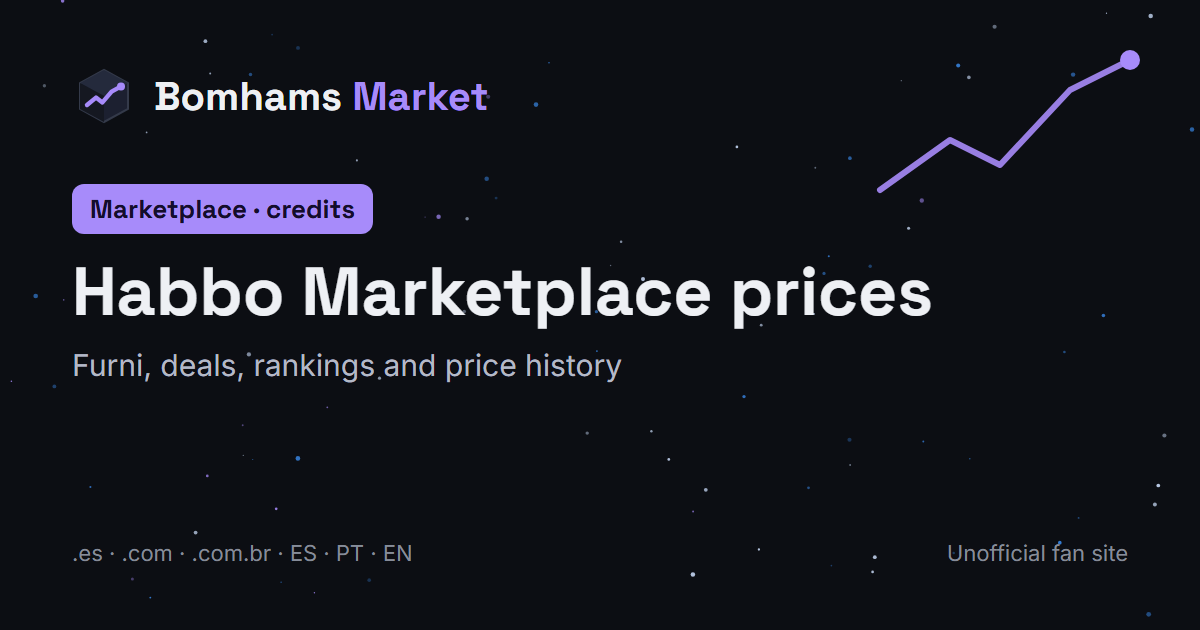
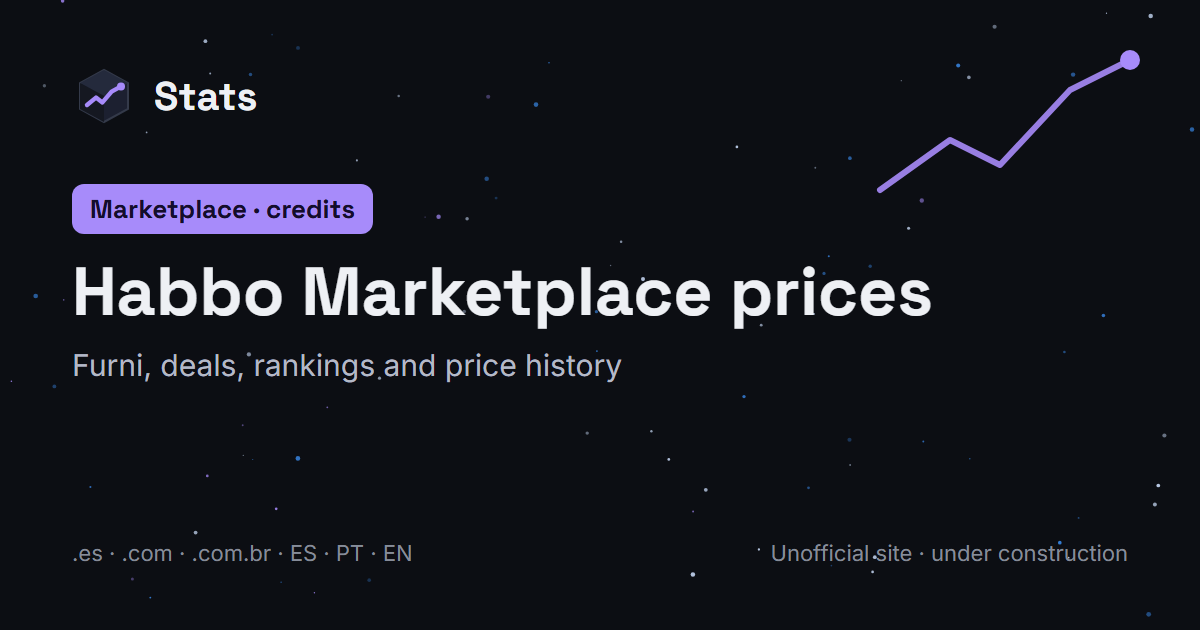
Nombre nuevo: Stats, y "En construcción" en el pie
El sitio pasa a llamarse Stats en el logo, títulos, Google, imágenes para compartir, avisos, notificaciones y correos. En el pie, la etiqueta "En construcción" reemplaza la mención a la comunidad; se mantiene el aviso de que no es oficial.

Changed region(s): [[0.1233, 0.1206, 0.4008, 0.181], [0.6475, 0.8444, 0.9558, 0.9048]]

diff --git a/src/lib/i18n/pages/es.tsx b/src/lib/i18n/pages/es.tsx
@@ -3,19 +3,19 @@ import type { ReactNode } from "react";
 /** Textos de las páginas (solo se usan en el servidor). */
 export const es = {
   meta: {
-    title: "Bomhams Market — precios del Marketplace",
-    template: "%s · Bomhams Market",
+    title: "Stats — precios del Marketplace",
+    template: "%s · Stats",
     description:
-      "Precios, ofertas abiertas, promedios e historial del Marketplace de furnis, con datos de la API pública de Habbo. Creado por la comunidad BOMHAMS; no oficial.",
+      "Precios, ofertas abiertas, promedios e historial del Marketplace de furnis, con datos de la API pública de Habbo. Sitio no oficial.",
     nftTitle: "NFT de Habbo — precios y ventas",
-    nftTemplate: "%s · NFT · Bomhams Market",
+    nftTemplate: "%s · NFT · Stats",
     nftDescription:
       "Precios piso, ventas y tendencias de los coleccionables NFT oficiales de Habbo en la blockchain Immutable. Sección separada del Marketplace de créditos.",
   },
   /** Títulos y descripciones para buscadores y para la vista previa al compartir. */
   seo: {
-    ogAltMarket: "Bomhams Market: precios del Marketplace de Habbo",
-    ogAltNft: "Bomhams Market: precios de los NFT oficiales de Habbo",
+    ogAltMarket: "Stats: precios del Marketplace de Habbo",
+    ogAltNft: "Stats: precios de los NFT oficiales de Habbo",
     home: (label: string) => `Precios del Marketplace de Habbo ${label}`,
     homeDesc: (label: string, region: string) =>
       `Precio mínimo, ofertas abiertas, promedios e historial de los furnis del Marketplace de Habbo ${label} (${region}). Rankings y ofertas detectadas cada día.`,
@@ -44,13 +44,15 @@ export const es = {
     nftRankingDesc: (hint: string) => `${hint} NFT oficiales de Habbo en la blockchain Immutable.`,
     nftAboutDesc: "De dónde salen los precios de los NFT de Habbo (API pública de Immutable), qué tan actuales son y qué límites tienen.",
   },
-  header: { homeAria: "Bomhams Market, inicio", nftHomeAria: "Bomhams Market NFT, inicio" },
+  header: { homeAria: "Stats, inicio", nftHomeAria: "Stats NFT, inicio" },
   footer: {
     about: (
       <>
-        Creado por la comunidad <strong className="text-text">BOMHAMS</strong>, sin fines comerciales.{" "}
-        <strong className="text-text">Bomhams Market</strong> no es oficial y no está afiliado, patrocinado ni aprobado por
-        Sulake Oy ni por Azerion. Habbo es una marca registrada de Sulake Oy.
+        <span className="mr-2 inline-flex items-center rounded-md border border-accent/50 bg-accent/10 px-2 py-0.5 text-xs font-bold uppercase tracking-wider text-accent">
+          En construcción
+        </span>
+        <strong className="text-text">Stats</strong> no tiene fines comerciales, no es oficial y no está afiliado, patrocinado ni
+        aprobado por Sulake Oy ni por Azerion. Habbo es una marca registrada de Sulake Oy.
       </>
     ),
     data: "Precios y estadísticas: API pública de Habbo. Íconos de furnis: servidos directamente por el CDN de Habbo. Los datos pueden tener demoras o errores; no los uses como única referencia para comprar o vender.",
@@ -307,14 +309,14 @@ export const es = {
       "Tu lista de alertas se guarda en tu navegador y, si creás una cuenta, también en tu cuenta. No usamos publicidad ni cookies de seguimiento. Las consultas en vivo van desde tu navegador directo a la API de Habbo, sin enviar cookies. El detalle está en «Privacidad y cookies».",
     legalTitle: "Aviso legal",
     legal:
-      "Bomhams Market fue creado por la comunidad BOMHAMS, es gratuito y sin fines comerciales. No es oficial y no está afiliado, patrocinado ni aprobado por Sulake Oy ni por Azerion. Habbo y los nombres e imágenes de los furnis son propiedad de Sulake Oy. Si Sulake pide retirar algún contenido, se retira.",
+      "Stats es gratuito y sin fines comerciales. No es oficial y no está afiliado, patrocinado ni aprobado por Sulake Oy ni por Azerion. Habbo y los nombres e imágenes de los furnis son propiedad de Sulake Oy. Si Sulake pide retirar algún contenido, se retira.",
   },
   privacy: {
     metaTitle: "Privacidad y cookies",
-    metaDesc: "Qué guarda Bomhams Market, dónde y cómo borrarlo. Sin publicidad ni seguimiento.",
+    metaDesc: "Qué guarda Stats, dónde y cómo borrarlo. Sin publicidad ni seguimiento.",
     title: "Privacidad y cookies",
     intro:
-      "Bomhams Market no tiene publicidad ni seguimiento, no vende datos y solo pide tu email si creás una cuenta. Esto es todo lo que se guarda y dónde.",
+      "Stats no tiene publicidad ni seguimiento, no vende datos y solo pide tu email si creás una cuenta. Esto es todo lo que se guarda y dónde.",
     sections: [
       {
         title: "En tu navegador (necesario)",
@@ -362,7 +364,7 @@ export const es = {
     ),
     marketLink: "Marketplace (créditos)",
     footerData:
-      "Datos de la API pública de Immutable zkEVM; imágenes servidas por Habbo (nft-tokens.habbo.com). Bomhams Market no es oficial ni está afiliado a Sulake Oy, Azerion ni Immutable.",
+      "Datos de la API pública de Immutable zkEVM; imágenes servidas por Habbo (nft-tokens.habbo.com). Stats no es oficial ni está afiliado a Sulake Oy, Azerion ni Immutable.",
     footerRisk:
       "Esto no es asesoramiento financiero. Los precios de los NFT cambian rápido y pueden bajar a cero; los dólares son aproximados según la cotización del momento.",
     collections: {
@@ -522,7 +524,7 @@ export const es = {
       ),
       noticeTitle: "Aviso",
       notice:
-        "Esto no es asesoramiento financiero. Los NFT son activos volátiles: su precio puede cambiar mucho o llegar a cero. Bomhams Market no vende, no compra y no custodia nada; solo muestra datos públicos. No es un sitio oficial de Habbo, Sulake, Azerion ni Immutable.",
+        "Esto no es asesoramiento financiero. Los NFT son activos volátiles: su precio puede cambiar mucho o llegar a cero. Stats no vende, no compra y no custodia nada; solo muestra datos públicos. No es un sitio oficial de Habbo, Sulake, Azerion ni Immutable.",
     },
   },
 };

diff --git a/src/lib/i18n/pages/pt.tsx b/src/lib/i18n/pages/pt.tsx
@@ -2,18 +2,18 @@ import type { Pages } from "./es";
 
 export const pt: Pages = {
   meta: {
-    title: "Bomhams Market — preços do Marketplace",
-    template: "%s · Bomhams Market",
+    title: "Stats — preços do Marketplace",
+    template: "%s · Stats",
     description:
-      "Preços, ofertas abertas, médias e histórico do Marketplace de mobis, com dados da API pública do Habbo. Criado pela comunidade BOMHAMS; não oficial.",
+      "Preços, ofertas abertas, médias e histórico do Marketplace de mobis, com dados da API pública do Habbo. Site não oficial.",
     nftTitle: "NFT do Habbo — preços e vendas",
-    nftTemplate: "%s · NFT · Bomhams Market",
+    nftTemplate: "%s · NFT · Stats",
     nftDescription:
       "Preço mínimo, vendas e tendências dos colecionáveis NFT oficiais do Habbo na blockchain Immutable. Seção separada do Marketplace de créditos.",
   },
   seo: {
-    ogAltMarket: "Bomhams Market: preços do Marketplace do Habbo",
-    ogAltNft: "Bomhams Market: preços dos NFT oficiais do Habbo",
+    ogAltMarket: "Stats: preços do Marketplace do Habbo",
+    ogAltNft: "Stats: preços dos NFT oficiais do Habbo",
     home: (label) => `Preços do Marketplace do Habbo ${label}`,
     homeDesc: (label, region) =>
       `Menor preço, ofertas abertas, médias e histórico dos mobis do Marketplace do Habbo ${label} (${region}). Rankings e ofertas detectadas todos os dias.`,
@@ -40,13 +40,15 @@ export const pt: Pages = {
     nftRankingDesc: (hint) => `${hint} NFT oficiais do Habbo na blockchain Immutable.`,
     nftAboutDesc: "De onde vêm os preços dos NFT do Habbo (API pública da Immutable), quão atuais são e quais limites têm.",
   },
-  header: { homeAria: "Bomhams Market, início", nftHomeAria: "Bomhams Market NFT, início" },
+  header: { homeAria: "Stats, início", nftHomeAria: "Stats NFT, início" },
   footer: {
     about: (
       <>
-        Criado pela comunidade <strong className="text-text">BOMHAMS</strong>, sem fins comerciais.{" "}
-        <strong className="text-text">Bomhams Market</strong> não é oficial e não é afiliado, patrocinado nem aprovado pela
-        Sulake Oy nem pela Azerion. Habbo é uma marca registrada da Sulake Oy.
+        <span className="mr-2 inline-flex items-center rounded-md border border-accent/50 bg-accent/10 px-2 py-0.5 text-xs font-bold uppercase tracking-wider text-accent">
+          Em construção
+        </span>
+        <strong className="text-text">Stats</strong> não tem fins comerciais, não é oficial e não é afiliado, patrocinado nem
+        aprovado pela Sulake Oy nem pela Azerion. Habbo é uma marca registrada da Sulake Oy.
       </>
     ),
     data: "Preços e estatísticas: API pública do Habbo. Ícones dos mobis: servidos diretamente pelo CDN do Habbo. Os dados podem ter atrasos ou erros; não use como única referência para comprar ou vender.",
@@ -298,13 +300,13 @@ export const pt: Pages = {
       "Sua lista de alertas fica salva no seu navegador e, se você criar uma conta, também na conta. Não usamos publicidade nem cookies de rastreamento. As consultas ao vivo vão do seu navegador direto para a API do Habbo, sem enviar cookies. Os detalhes estão em «Privacidade e cookies».",
     legalTitle: "Aviso legal",
     legal:
-      "Bomhams Market foi criado pela comunidade BOMHAMS, é gratuito e sem fins comerciais. Não é oficial e não é afiliado, patrocinado nem aprovado pela Sulake Oy nem pela Azerion. Habbo e os nomes e imagens dos mobis são propriedade da Sulake Oy. Se a Sulake pedir para retirar algum conteúdo, ele será retirado.",
+      "Stats é gratuito e sem fins comerciais. Não é oficial e não é afiliado, patrocinado nem aprovado pela Sulake Oy nem pela Azerion. Habbo e os nomes e imagens dos mobis são propriedade da Sulake Oy. Se a Sulake pedir para retirar algum conteúdo, ele será retirado.",
   },
   privacy: {
     metaTitle: "Privacidade e cookies",
-    metaDesc: "O que o Bomhams Market guarda, onde e como apagar. Sem publicidade nem rastreamento.",
+    metaDesc: "O que o Stats guarda, onde e como apagar. Sem publicidade nem rastreamento.",
     title: "Privacidade e cookies",
-    intro: "O Bomhams Market não tem publicidade nem rastreamento, não vende dados e só pede seu e-mail se você criar uma conta. Isto é tudo o que fica salvo e onde.",
+    intro: "O Stats não tem publicidade nem rastreamento, não vende dados e só pede seu e-mail se você criar uma conta. Isto é tudo o que fica salvo e onde.",
     sections: [
       {
         title: "No seu navegador (necessário)",
@@ -352,7 +354,7 @@ export const pt: Pages = {
     ),
     marketLink: "Marketplace (créditos)",
     footerData:
-      "Dados da API pública da Immutable zkEVM; imagens servidas pelo Habbo (nft-tokens.habbo.com). Bomhams Market não é oficial nem afiliado à Sulake Oy, à Azerion ou à Immutable.",
+      "Dados da API pública da Immutable zkEVM; imagens servidas pelo Habbo (nft-tokens.habbo.com). Stats não é oficial nem afiliado à Sulake Oy, à Azerion ou à Immutable.",
     footerRisk:
       "Isto não é recomendação financeira. Os preços dos NFT mudam rápido e podem chegar a zero; os valores em dólares são aproximados pela cotação do momento.",
     collections: {
@@ -506,7 +508,7 @@ export const pt: Pages = {
       ),
       noticeTitle: "Aviso",
       notice:
-        "Isto não é recomendação financeira. NFT são ativos voláteis: o preço pode mudar muito ou chegar a zero. O Bomhams Market não vende, não compra e não guarda nada; só mostra dados públicos. Não é um site oficial do Habbo, da Sulake, da Azerion nem da Immutable.",
+        "Isto não é recomendação financeira. NFT são ativos voláteis: o preço pode mudar muito ou chegar a zero. O Stats não vende, não compra e não guarda nada; só mostra dados públicos. Não é um site oficial do Habbo, da Sulake, da Azerion nem da Immutable.",
     },
   },
 };

diff --git a/src/lib/i18n/pages/en.tsx b/src/lib/i18n/pages/en.tsx
@@ -2,18 +2,18 @@ import type { Pages } from "./es";
 
 export const en: Pages = {
   meta: {
-    title: "Bomhams Market — Marketplace prices",
-    template: "%s · Bomhams Market",
+    title: "Stats — Marketplace prices",
+    template: "%s · Stats",
     description:
-      "Prices, open offers, averages and history of the furni Marketplace, using data from Habbo's public API. Created by the BOMHAMS community; unofficial.",
+      "Prices, open offers, averages and history of the furni Marketplace, using data from Habbo's public API. Unofficial site.",
     nftTitle: "Habbo NFTs — prices and sales",
-    nftTemplate: "%s · NFT · Bomhams Market",
+    nftTemplate: "%s · NFT · Stats",
     nftDescription:
       "Floor prices, sales and trends of Habbo's official NFT collectibles on the Immutable blockchain. A section separate from the credits Marketplace.",
   },
   seo: {
-    ogAltMarket: "Bomhams Market: Habbo Marketplace prices",
-    ogAltNft: "Bomhams Market: prices of Habbo's official NFTs",
+    ogAltMarket: "Stats: Habbo Marketplace prices",
+    ogAltNft: "Stats: prices of Habbo's official NFTs",
     home: (label) => `Habbo ${label} Marketplace prices`,
     homeDesc: (label, region) =>
       `Lowest price, open offers, averages and history for every furni on the Habbo ${label} Marketplace (${region}). Daily rankings and deals.`,
@@ -38,12 +38,14 @@ export const en: Pages = {
     nftRankingDesc: (hint) => `${hint} Habbo's official NFTs on the Immutable blockchain.`,
     nftAboutDesc: "Where Habbo NFT prices come from (Immutable's public API), how fresh they are and what their limits are.",
   },
-  header: { homeAria: "Bomhams Market, home", nftHomeAria: "Bomhams Market NFT, home" },
+  header: { homeAria: "Stats, home", nftHomeAria: "Stats NFT, home" },
   footer: {
     about: (
       <>
-        Created by the <strong className="text-text">BOMHAMS</strong> community, non-commercial.{" "}
-        <strong className="text-text">Bomhams Market</strong> is not official and is not affiliated with, sponsored or
+        <span className="mr-2 inline-flex items-center rounded-md border border-accent/50 bg-accent/10 px-2 py-0.5 text-xs font-bold uppercase tracking-wider text-accent">
+          Under construction
+        </span>
+        <strong className="text-text">Stats</strong> is non-commercial, not official and not affiliated with, sponsored or
         endorsed by Sulake Oy or Azerion. Habbo is a registered trademark of Sulake Oy.
       </>
     ),
@@ -292,13 +294,13 @@ export const en: Pages = {
       "Your alert list is saved in your browser and, if you create an account, in your account too. No ads and no tracking cookies. Live lookups go from your browser straight to the Habbo API, without sending cookies. Details in «Privacy & cookies».",
     legalTitle: "Legal notice",
     legal:
-      "Bomhams Market was created by the BOMHAMS community and is free and non-commercial. It is not official and is not affiliated with, sponsored or endorsed by Sulake Oy or Azerion. Habbo and the furni names and images are property of Sulake Oy. If Sulake asks for any content to be removed, it will be removed.",
+      "Stats is free and non-commercial. It is not official and is not affiliated with, sponsored or endorsed by Sulake Oy or Azerion. Habbo and the furni names and images are property of Sulake Oy. If Sulake asks for any content to be removed, it will be removed.",
   },
   privacy: {
     metaTitle: "Privacy & cookies",
-    metaDesc: "What Bomhams Market stores, where, and how to delete it. No ads, no tracking.",
+    metaDesc: "What Stats stores, where, and how to delete it. No ads, no tracking.",
     title: "Privacy & cookies",
-    intro: "Bomhams Market has no ads or tracking, doesn't sell data and only asks for your email if you create an account. This is everything that gets stored and where.",
+    intro: "Stats has no ads or tracking, doesn't sell data and only asks for your email if you create an account. This is everything that gets stored and where.",
     sections: [
       {
         title: "In your browser (necessary)",
@@ -347,7 +349,7 @@ export const en: Pages = {
     ),
     marketLink: "Marketplace (credits)",
     footerData:
-      "Data from the public Immutable zkEVM API; images served by Habbo (nft-tokens.habbo.com). Bomhams Market is not official or affiliated with Sulake Oy, Azerion or Immutable.",
+      "Data from the public Immutable zkEVM API; images served by Habbo (nft-tokens.habbo.com). Stats is not official or affiliated with Sulake Oy, Azerion or Immutable.",
     footerRisk:
       "This is not financial advice. NFT prices change fast and can drop to zero; dollar amounts are approximate, based on the exchange rate at the time.",
     collections: {
@@ -499,7 +501,7 @@ export const en: Pages = {
       ),
       noticeTitle: "Notice",
       notice:
-        "This is not financial advice. NFTs are volatile assets: their price can change a lot or drop to zero. Bomhams Market doesn't sell, buy or hold anything; it only shows public data. It is not an official site of Habbo, Sulake, Azerion or Immutable.",
+        "This is not financial advice. NFTs are volatile assets: their price can change a lot or drop to zero. Stats doesn't sell, buy or hold anything; it only shows public data. It is not an official site of Habbo, Sulake, Azerion or Immutable.",
     },
   },
 };

diff --git a/src/lib/accounts/emails.ts b/src/lib/accounts/emails.ts
@@ -9,43 +9,43 @@ function esc(s: string): string {
 
 const T = {
   es: {
-    verifySubject: "Confirmá tu email en Bomhams Market",
+    verifySubject: "Confirmá tu email en Stats",
     verifyIntro: (name: string) => `Hola ${name}: confirmá que este email es tuyo. Así vas a poder recuperar tu cuenta si te olvidás la contraseña.`,
     verifyButton: "Confirmar mi email",
     verifyExpires: "El enlace vence en 24 horas.",
-    resetSubject: "Recuperar tu cuenta de Bomhams Market",
+    resetSubject: "Recuperar tu cuenta de Stats",
     resetIntro: "Pediste recuperar tu cuenta. Estas son las cuentas con este email:",
     resetUser: (name: string) => `Usuario: ${name}`,
     resetButton: "Elegir una contraseña nueva",
     resetExpires: "Cada enlace vence en 1 hora y sirve una sola vez.",
     notYou: "Si no fuiste vos, ignorá este correo: no cambia nada.",
-    footer: "Bomhams Market · creado por la comunidad BOMHAMS, no oficial de Habbo. Nunca te vamos a pedir tu contraseña por correo.",
+    footer: "Stats · no es un sitio oficial de Habbo. Nunca te vamos a pedir tu contraseña por correo.",
   },
   pt: {
-    verifySubject: "Confirme seu e-mail no Bomhams Market",
+    verifySubject: "Confirme seu e-mail no Stats",
     verifyIntro: (name: string) => `Olá ${name}: confirme que este e-mail é seu. Assim você poderá recuperar sua conta se esquecer a senha.`,
     verifyButton: "Confirmar meu e-mail",
     verifyExpires: "O link vence em 24 horas.",
-    resetSubject: "Recuperar sua conta do Bomhams Market",
+    resetSubject: "Recuperar sua conta do Stats",
     resetIntro: "Você pediu para recuperar sua conta. Estas são as contas com este e-mail:",
     resetUser: (name: string) => `Usuário: ${name}`,
     resetButton: "Escolher uma nova senha",
     resetExpires: "Cada link vence em 1 hora e só pode ser usado uma vez.",
     notYou: "Se não foi você, ignore este e-mail: nada muda.",
-    footer: "Bomhams Market · criado pela comunidade BOMHAMS, não oficial do Habbo. Nunca vamos pedir sua senha por e-mail.",
+    footer: "Stats · não é um site oficial do Habbo. Nunca vamos pedir sua senha por e-mail.",
   },
   en: {
-    verifySubject: "Confirm your email on Bomhams Market",
+    verifySubject: "Confirm your email on Stats",
     verifyIntro: (name: string) => `Hi ${name}: confirm this email is yours, so you can recover your account if you forget your password.`,
     verifyButton: "Confirm my email",
     verifyExpires: "The link expires in 24 hours.",
-    resetSubject: "Recover your Bomhams Market account",
+    resetSubject: "Recover your Stats account",
     resetIntro: "You asked to recover your account. These are the accounts with this email:",
     resetUser: (name: string) => `Username: ${name}`,
     resetButton: "Choose a new password",
     resetExpires: "Each link expires in 1 hour and works only once.",
     notYou: "If this wasn't you, ignore this email: nothing changes.",
-    footer: "Bomhams Market · created by the BOMHAMS community, not an official Habbo site. We will never ask for your password by email.",
+    footer: "Stats · not an official Habbo site. We will never ask for your password by email.",
   },
 } satisfies Record<Lang, unknown>;
 
@@ -53,7 +53,7 @@ function layout(body: string, footer: string): string {
   return `<!doctype html><html><body style="margin:0;background:#f4f4f7;font-family:Arial,Helvetica,sans-serif;color:#1c2030">
 <div style="max-width:520px;margin:0 auto;padding:24px">
 <div style="background:#ffffff;border-radius:12px;padding:24px">
-<p style="margin:0 0 16px;font-size:20px;font-weight:bold">Bomhams <span style="color:#6d4fd8">Market</span></p>
+<p style="margin:0 0 16px;font-size:20px;font-weight:bold"><span style="color:#6d4fd8">Stats</span></p>
 ${body}
 </div>
 <p style="font-size:12px;color:#6b7080;margin:16px 4px 0">${esc(footer)}</p>

diff --git a/src/app/[lang]/[hotel]/alertas/servidor/page.tsx b/src/app/[lang]/[hotel]/alertas/servidor/page.tsx
@@ -37,8 +37,8 @@ async function Content({ params }: Pick<PageProps<"/[lang]/[hotel]/alertas/servi
           <li>
             <strong className="text-text">Telegram:</strong> creá un canal público, creá un bot con @BotFather y agregalo al
             canal como administrador con permiso para publicar. Variables: <code>TELEGRAM_BOT_TOKEN</code>,{" "}
-            <code>TELEGRAM_CHAT_ID</code> (por ejemplo <code>@BomhamsOfertas</code>) y{" "}
-            <code>NEXT_PUBLIC_TELEGRAM_URL</code> (<code>https://t.me/BomhamsOfertas</code>).
+            <code>TELEGRAM_CHAT_ID</code> (por ejemplo <code>@TuCanalDeOfertas</code>) y{" "}
+            <code>NEXT_PUBLIC_TELEGRAM_URL</code> (<code>https://t.me/TuCanalDeOfertas</code>).
           </li>
           <li>
             <strong className="text-text">Discord:</strong> en tu servidor, en el canal de ofertas: Editar canal →

diff --git a/public/sw.js b/public/sw.js
@@ -1,4 +1,4 @@
-// Service worker mínimo de Bomhams Market: abre la ficha al tocar una notificación.
+// Service worker mínimo de Stats: abre la ficha al tocar una notificación.
 self.addEventListener("install", () => self.skipWaiting());
 self.addEventListener("activate", (event) => event.waitUntil(self.clients.claim()));
 
@@ -37,7 +37,7 @@ self.addEventListener("push", (event) => {
     data = { body: event.data ? event.data.text() : "" };
   }
   const url = safeUrl(data.url);
-  const title = typeof data.title === "string" ? data.title.slice(0, 120) : "Bomhams Market";
+  const title = typeof data.title === "string" ? data.title.slice(0, 120) : "Stats";
   const body = typeof data.body === "string" ? data.body.slice(0, 300) : "";
   event.waitUntil(
     self.registration.showNotification(title, { body, icon: "/icon.svg", tag: url, data: { url } }),

diff --git a/tests/e2e/diseno.spec.ts b/tests/e2e/diseno.spec.ts
@@ -13,8 +13,10 @@ test("el pie de página enlaza a la comunidad en X", async ({ page }) => {
   await page.goto("/es");
   await expect(page.getByRole("link", { name: "Bomhams en X" })).toHaveAttribute("href", "https://x.com/bomhams");
   const footer = page.locator("footer");
-  await expect(footer).toContainText("Creado por la comunidad BOMHAMS");
+  await expect(footer.getByText("En construcción", { exact: true })).toBeVisible();
+  await expect(footer).not.toContainText("comunidad BOMHAMS");
   await expect(footer).not.toContainText("de fans");
+  await expect(page.getByRole("banner")).toContainText("Stats");
   await expect(footer).toContainText(/Desarrollado por\s+Luciano Dev/i);
   await expect(footer.getByRole("link", { name: "Luciano Dev" })).toHaveAttribute("href", "https://lucianocolalungadev.com.ar/");
   await page.goto("/en/nft");

diff --git a/src/lib/alerts/server.ts b/src/lib/alerts/server.ts
@@ -171,7 +171,7 @@ ${itemUrl(base, hotel, d.k)}` : ""),
   }
 
   if (lines.length > 0) {
-    const text = `Bomhams Market — ${lines.length} aviso(s)\n${lines.join("\n")}`;
+    const text = `Stats — ${lines.length} aviso(s)\n${lines.join("\n")}`;
     for (const channel of channels) {
       try {
         await channel.send(text);
@@ -242,7 +242,7 @@ export async function sendTestMessage(
   }
   const base = siteUrl(env);
   const text =
-    "✅ Bomhams Market quedó conectado a este canal. Acá se publican las ofertas más fuertes que detecta cada escaneo." +
+    "✅ Stats quedó conectado a este canal. Acá se publican las ofertas más fuertes que detecta cada escaneo." +
     (base ? `
 ${base}` : "");
   for (const channel of channels) {

diff --git a/src/lib/i18n/ui/es.ts b/src/lib/i18n/ui/es.ts
@@ -161,7 +161,7 @@ export const es = {
     howTitle: "Para que te lleguen los avisos",
     step1: "Activá las notificaciones. El navegador te va a preguntar si das permiso: elegí",
     allow: "Permitir",
-    step2: "Dejá abierta una pestaña de Bomhams Market. Puede estar minimizada; si la cerrás, no llegan avisos.",
+    step2: "Dejá abierta una pestaña de Stats. Puede estar minimizada; si la cerrás, no llegan avisos.",
     step3: "Tu lista queda guardada en este navegador aunque cierres la pestaña o apagues la PC.",
     showNotifs: "Mostrar notificaciones del navegador",
     unsupported: "Este navegador no muestra notificaciones: los avisos van a aparecer dentro de la página.",

diff --git a/src/lib/i18n/ui/pt.ts b/src/lib/i18n/ui/pt.ts
@@ -159,7 +159,7 @@ export const pt: Ui = {
     howTitle: "Para receber os avisos",
     step1: "Ative as notificações. O navegador vai perguntar se você permite: escolha",
     allow: "Permitir",
-    step2: "Deixe uma aba do Bomhams Market aberta. Ela pode estar minimizada; se você fechar, os avisos não chegam.",
+    step2: "Deixe uma aba do Stats aberta. Ela pode estar minimizada; se você fechar, os avisos não chegam.",
     step3: "Sua lista fica salva neste navegador mesmo se você fechar a aba ou desligar o computador.",
     showNotifs: "Mostrar notificações do navegador",
     unsupported: "Este navegador não mostra notificações: os avisos vão aparecer dentro da página.",

diff --git a/src/lib/accounts/service.ts b/src/lib/accounts/service.ts
@@ -37,7 +37,7 @@ type Result<T> = { ok: true; value: T } | { ok: false; error: AccountError };
 
 const USERNAME = /^[A-Za-z0-9_.-]{3,20}$/;
 /** Nombres que se podrían usar para hacerse pasar por el sitio o por el equipo. */
-const RESERVED = /^(admin|administrador|administrator|root|staff|mod|moderador|moderator|bomhams|bomhamsmarket|habbo|sulake|soporte|support|system|sistema)$/;
+const RESERVED = /^(admin|administrador|administrator|root|staff|mod|moderador|moderator|bomhams|bomhamsmarket|stats|habbo|sulake|soporte|support|system|sistema)$/;
 
 const LIMITS = {
   /** Intentos fallidos de una cuenta desde una misma conexión. */

diff --git a/src/lib/i18n/ui/en.ts b/src/lib/i18n/ui/en.ts
@@ -159,7 +159,7 @@ export const en: Ui = {
     howTitle: "To get the alerts",
     step1: "Turn on notifications. Your browser will ask for permission: choose",
     allow: "Allow",
-    step2: "Keep a Bomhams Market tab open. It can be minimized; if you close it, alerts won't arrive.",
+    step2: "Keep a Stats tab open. It can be minimized; if you close it, alerts won't arrive.",
     step3: "Your list stays saved in this browser even if you close the tab or turn off your computer.",
     showNotifs: "Show browser notifications",
     unsupported: "This browser doesn't show notifications: alerts will appear inside the page.",
